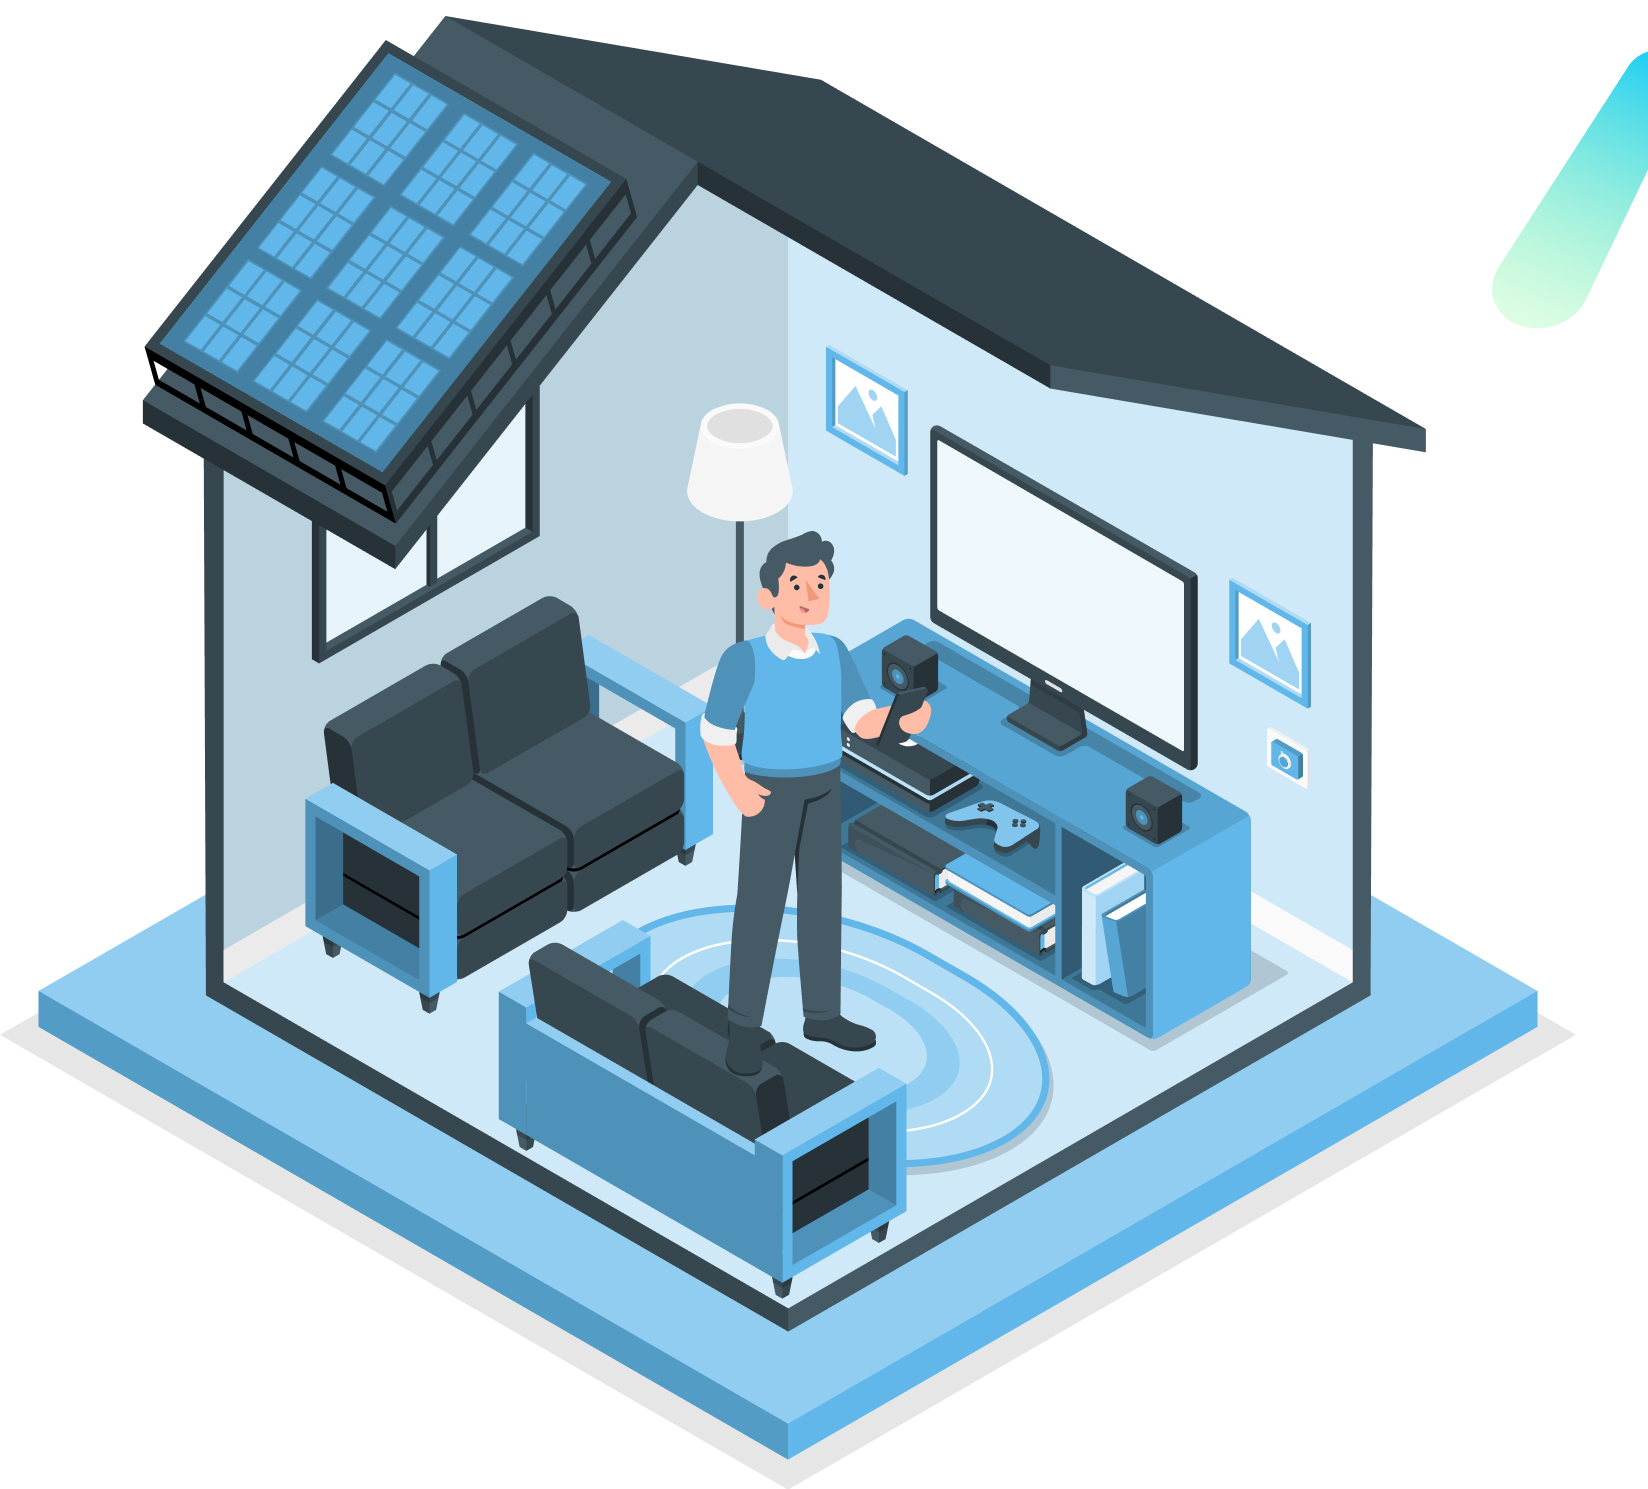
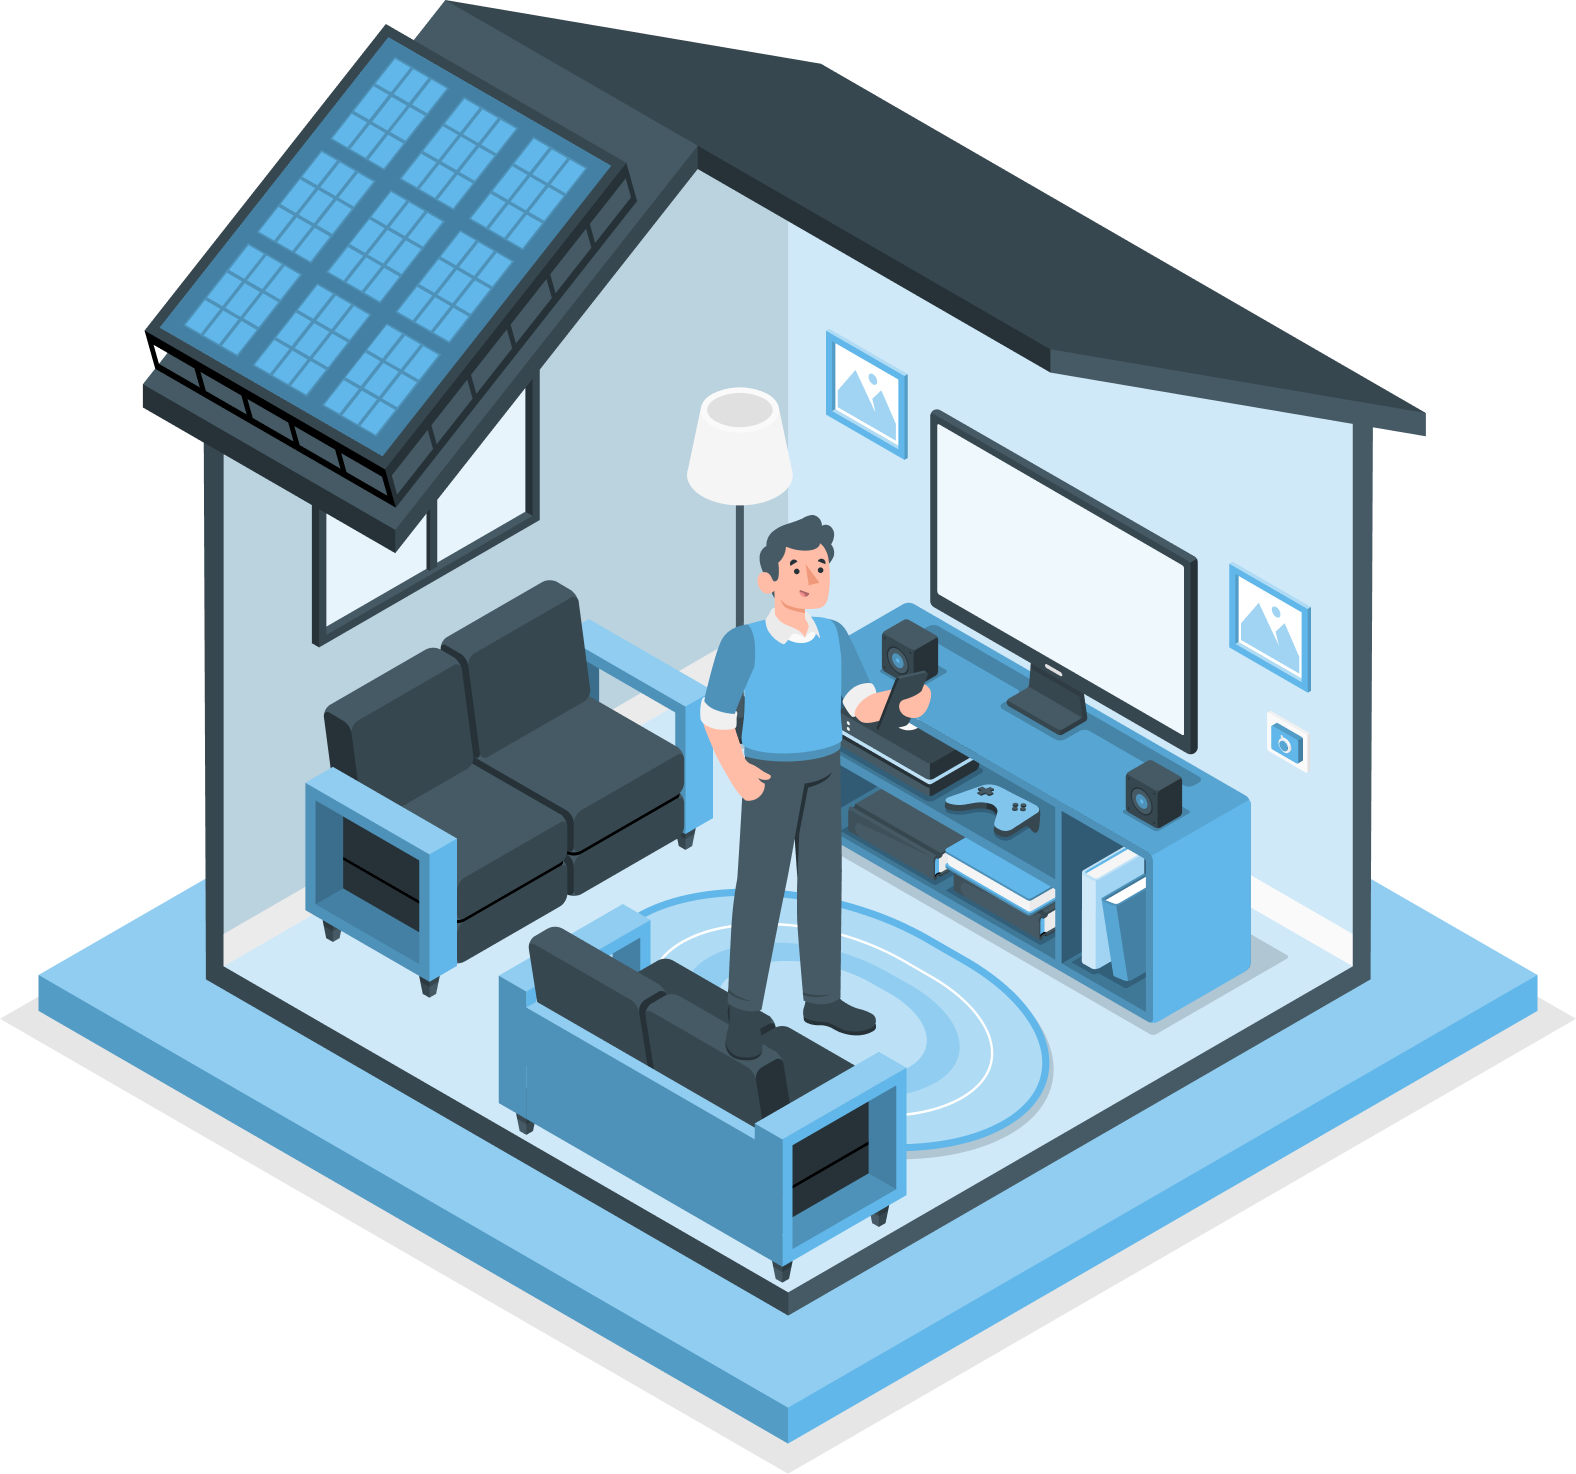
Update combo Screen

diff --git a/src/screens/ComboScreen/styles/stylesHousehold.ts b/src/screens/ComboScreen/styles/stylesHousehold.ts
@@ -11,12 +11,12 @@ const stylesChat = StyleSheet.create({
         zIndex: 1,
     },
     character: {
-        height: 419,
-        width: 350,
+        height: 348,
+        width: 394,
         position: 'absolute',
-        bottom: 950,
-        left: 50,
+        bottom: 980,
         zIndex: 2,
+        alignSelf: 'center',
     },
     imageLeftSide: {
         height: 143,
@@ -50,16 +50,16 @@ const stylesChat = StyleSheet.create({
     },
     upSideDown: { 
         width: 487,
-        height: 209,
+        height: 112,
         position: 'absolute',
-        bottom: 400,
+        bottom: 510,
         zIndex: 12,
     },
     rec38: {
         height: 103,
         width: '100%',
         position: 'absolute',
-        bottom: 600,
+        bottom: 610,
     },
 });
 

diff --git a/src/screens/ComboScreen/ComboScreen.tsx b/src/screens/ComboScreen/ComboScreen.tsx
@@ -84,7 +84,11 @@ const ComboScreen = () => {
           />
 
           <View
-            style={{backgroundColor: 'white', height: 2000, zIndex: -1}}></View>
+            style={{
+              backgroundColor: 'white',
+              height: 2000,
+              zIndex: -1,
+            }}></View>
 
           <View style={stylesChat.chat}>
             <Image
@@ -357,6 +361,7 @@ const ComboScreen = () => {
             style={stylesHousehold.upSideDown}
           />
         </View>
+        <View style={{backgroundColor: '#fff', height: 180}}></View>
       </View>
     </ScrollView>
   );
